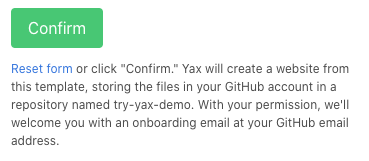
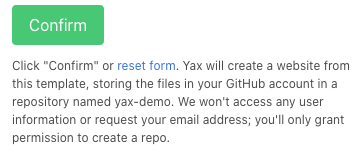
small tweaks to deploy form

diff --git a/index.html b/index.html
@@ -367,7 +367,8 @@
 
                         <!-- Radio buttons-->
                         <div class="field">
-                          <label class="label">GitHub account</label>
+                          <label class="label">GitHub</label>
+                          <p class="help">We'll store your website files on <a href="https://github.com/">GitHub</a>.</p>
                           <div>
                             <input class="is-checkradio is-small" id="github-account-yes" type="radio" name="github-account" checked="checked">
                             <label for="github-account-yes">I have a GitHub account</label>
@@ -376,12 +377,12 @@
                             <input class="is-checkradio is-small" id="github-account-no" type="radio" name="github-account">
                             <label for="github-account-no">Create a GitHub account for me</label>
                           </div>
-                          <p class="help">We'll store your website files on <a href="https://github.com/">GitHub</a>.</p>
+
                         </div>
 
                         <!-- Text input-->
                         <div class="field">
-                          <label class="label" for="repository">Give a project name</label>
+                          <label class="label" for="repository">Project name</label>
                           <div class="control">
                             <input id="repository" name="repository" type="text" placeholder="my-website" class="input is-small" required="">
                             <p class="help">A name for a new GitHub repository for your website files.</p>
@@ -390,7 +391,7 @@
 
                         <!-- Text input-->
                         <div class="field">
-                          <label class="label" for="title">Give a website title</label>
+                          <label class="label" for="title">Website title</label>
                           <div class="control">
                             <input id="title" name="title" type="text" placeholder="My.com | My Website" class="input is-small">
                             <p class="help">A title you'd like to see in search results and the browser tab.</p>
@@ -419,7 +420,7 @@
 
                         <div class="field">
                           <div class="confirmable" style="display:none">
-                            <p class="help"><a href="#" id="reset-link">Reset form</a> or click "Confirm." Yax will create a website from this template, storing the files in your GitHub account in a repository named <span id="repo-name">repo</span>. With your permission, we'll welcome you with an onboarding email at your GitHub email address.</p>
+                            <p class="help">Click "Confirm" or <a href="#" id="reset-link">reset form</a>. Yax will create a website from this template, storing the files in your GitHub account in a repository named <span id="repo-name">repo</span>. We won't access any user information or request your email address; you'll only grant permission to create a repo.</p>
                           </div>
                         </div>
                       </fieldset>
